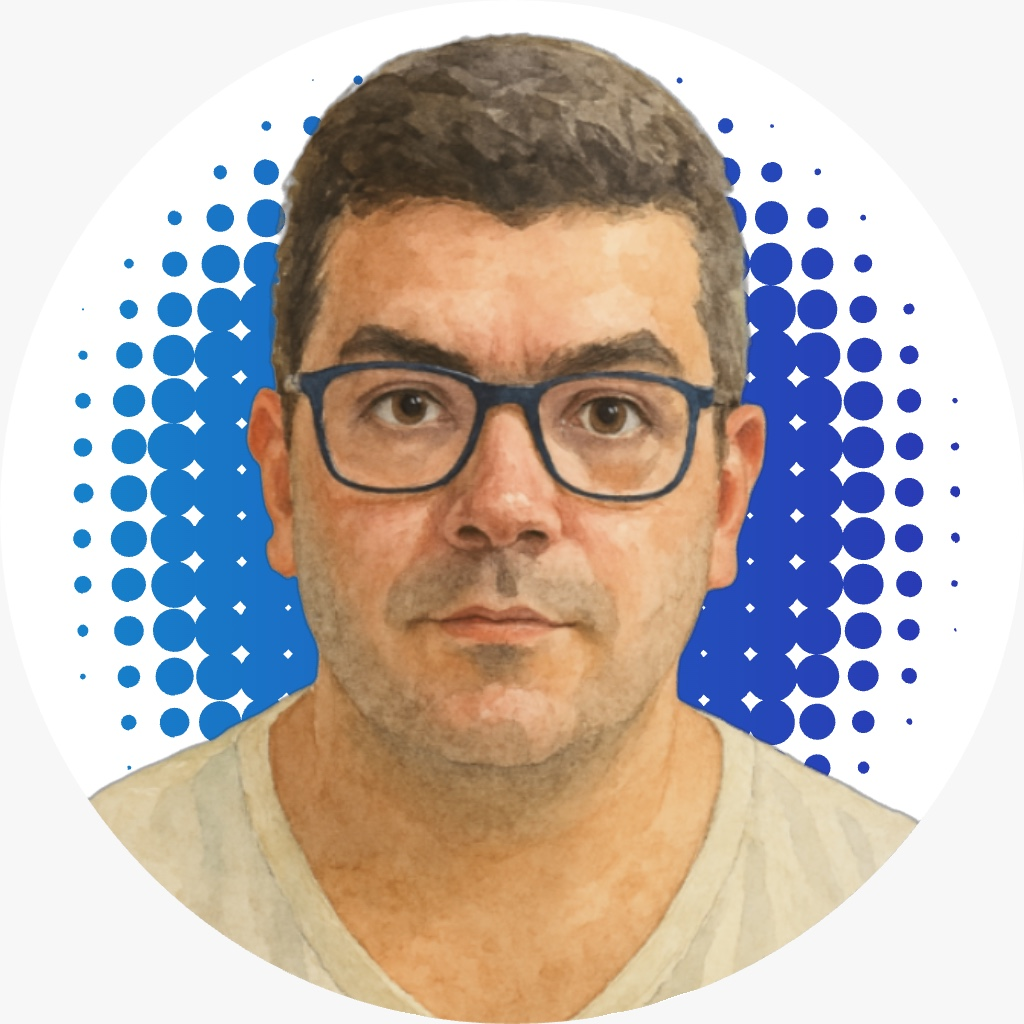
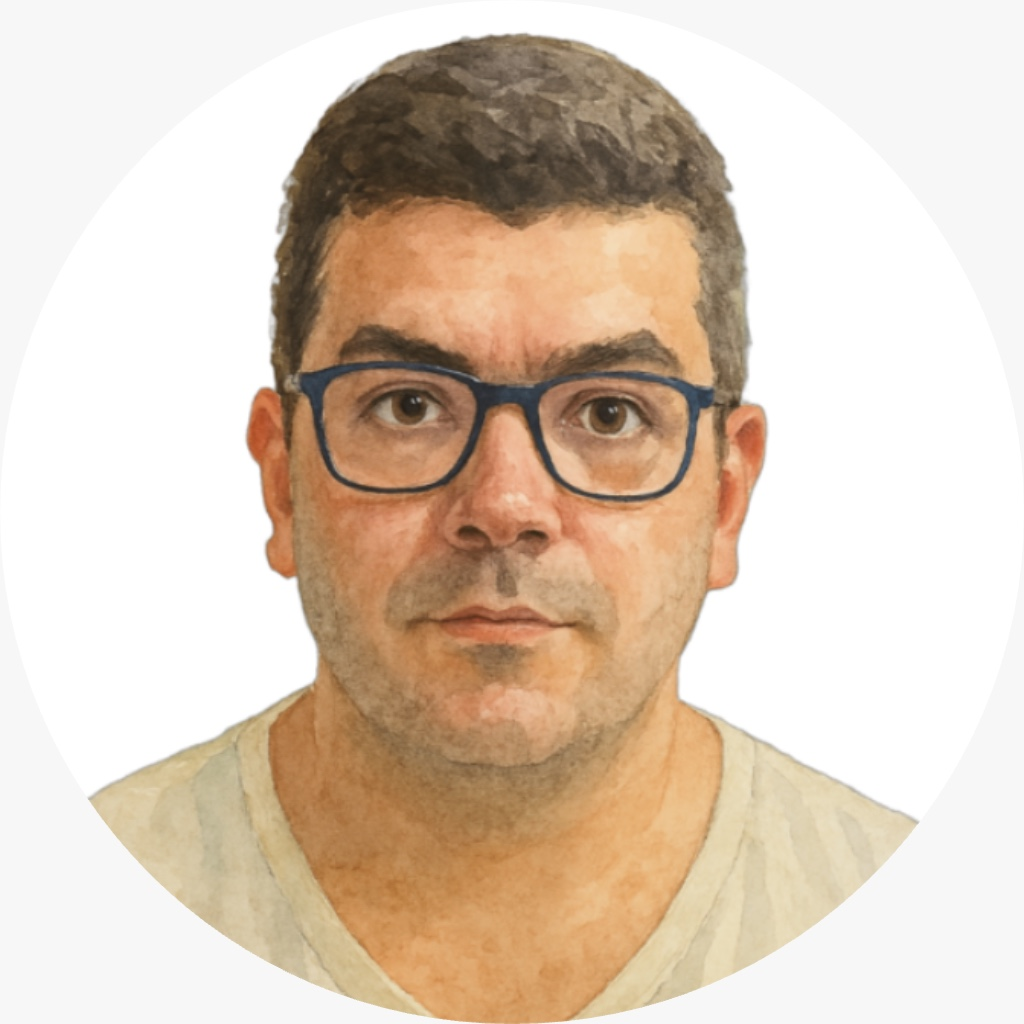
ActualIzacion v3

Changed region(s): [[0.6562, 0.0938, 0.9062, 0.7812], [0.0625, 0.1562, 0.3125, 0.7188], [0.2812, 0.0938, 0.3125, 0.125]]

diff --git a/app/page.tsx b/app/page.tsx
@@ -4,10 +4,34 @@ import { useState, useEffect, useRef } from "react"
 import type React from "react"
 import { Button } from "@/components/ui/button"
 import { Card, CardContent } from "@/components/ui/card"
-import { Sparkles, Target, Rocket, Shield, Brain, Users, Cog, TrendingUp, MessageSquare, Star } from "lucide-react"
+import {
+  ArrowRight,
+  Play,
+  Sparkles,
+  Target,
+  Rocket,
+  Shield,
+  Zap,
+  Brain,
+  Users,
+  Cog,
+  TrendingUp,
+  MessageSquare,
+  Calendar,
+  Star,
+  CheckCircle,
+  XCircle,
+  AlertCircle,
+  X,
+} from "lucide-react"
 
 import { useAnalytics } from "@/hooks/use-analytics"
 import { ScrollTracker } from "@/components/scroll-tracker"
+declare global {
+  interface Window {
+    grecaptcha: any
+  }
+}
 
 // Agregar después de los imports
 const animationStyles = `
@@ -64,6 +88,26 @@ const animationStyles = `
     }
   }
 
+  @keyframes slideInFromTop {
+    from {
+      opacity: 0;
+      transform: translateY(-100px);
+    }
+    to {
+      opacity: 1;
+      transform: translateY(0);
+    }
+  }
+
+  @keyframes pulse {
+    0%, 100% {
+      transform: scale(1);
+    }
+    50% {
+      transform: scale(1.05);
+    }
+  }
+
   .animate-fade-in-left {
     animation: fadeInLeft 0.8s ease-out forwards;
   }
@@ -82,6 +126,14 @@ const animationStyles = `
 
   .animate-float {
     animation: float 3s ease-in-out infinite;
+  }
+
+  .animate-slide-in-top {
+    animation: slideInFromTop 0.5s ease-out forwards;
+  }
+
+  .animate-pulse-gentle {
+    animation: pulse 2s ease-in-out infinite;
   }
 
   .animate-stagger-1 {
@@ -139,6 +191,68 @@ const animationStyles = `
   }
 `
 
+// Componente de notificación
+const Notification = ({ type, title, message, onClose }) => {
+  const getIcon = () => {
+    switch (type) {
+      case "success":
+        return <CheckCircle className="w-6 h-6 text-green-500" />
+      case "error":
+        return <XCircle className="w-6 h-6 text-red-500" />
+      case "warning":
+        return <AlertCircle className="w-6 h-6 text-yellow-500" />
+      default:
+        return <CheckCircle className="w-6 h-6 text-blue-500" />
+    }
+  }
+
+  const getBgColor = () => {
+    switch (type) {
+      case "success":
+        return "bg-green-50 border-green-200"
+      case "error":
+        return "bg-red-50 border-red-200"
+      case "warning":
+        return "bg-yellow-50 border-yellow-200"
+      default:
+        return "bg-blue-50 border-blue-200"
+    }
+  }
+
+  const getTextColor = () => {
+    switch (type) {
+      case "success":
+        return "text-green-800"
+      case "error":
+        return "text-red-800"
+      case "warning":
+        return "text-yellow-800"
+      default:
+        return "text-blue-800"
+    }
+  }
+
+  return (
+    <div className="fixed top-4 right-4 z-50 animate-slide-in-top">
+      <div className={`max-w-md rounded-xl border-2 ${getBgColor()} shadow-2xl backdrop-blur-sm`}>
+        <div className="p-6">
+          <div className="flex items-start space-x-4">
+            <div className="flex-shrink-0 animate-pulse-gentle">{getIcon()}</div>
+            <div className="flex-1 min-w-0">
+              <h3 className={`text-lg font-bold ${getTextColor()} mb-2`}>{title}</h3>
+              <p className={`text-sm ${getTextColor()} leading-relaxed`}>{message}</p>
+            </div>
+            <button onClick={onClose} className={`flex-shrink-0 ${getTextColor()} hover:opacity-70 transition-opacity`}>
+              <X className="w-5 h-5" />
+            </button>
+          </div>
+        </div>
+      </div>
+    </div>
+  )
+}
+
+
 export default function MeikifyWebsite() {
   const analytics = useAnalytics()
   const [isMenuOpen, setIsMenuOpen] = useState(false)
@@ -148,6 +262,21 @@ export default function MeikifyWebsite() {
   const [visibleMethodologyCards, setVisibleMethodologyCards] = useState(new Set())
   const videoRef = useRef<HTMLVideoElement | null>(null)
   const [recaptchaToken, setRecaptchaToken] = useState<string | null>(null)
+  const [notification, setNotification] = useState(null)
+
+  // Función para mostrar notificaciones
+  const showNotification = (type, title, message) => {
+    console.log("Notification:", type, title, message)
+    setNotification({ type, title, message })
+    // Auto-cerrar después de 6 segundos
+    setTimeout(() => {
+      setNotification(null)
+    }, 6000)
+  }
+
+  const closeNotification = () => {
+    setNotification(null)
+  }
 
   useEffect(() => {
     const handleMouseMove = (e: MouseEvent) => {
@@ -240,53 +369,106 @@ export default function MeikifyWebsite() {
   }, [])
 
   // Listen for reCAPTCHA events
-  useEffect(() => {
-    const handleRecaptchaChange = (event: CustomEvent) => {
-      setRecaptchaToken(event.detail)
-    }
+    useEffect(() => {
+      const handleRecaptchaChange = (event: CustomEvent) => {
+        setRecaptchaToken(event.detail)
+      }
 
-    window.addEventListener("recaptcha-change", handleRecaptchaChange as EventListener)
+      window.addEventListener("recaptcha-change", handleRecaptchaChange as EventListener)
 
-    return () => {
-      window.removeEventListener("recaptcha-change", handleRecaptchaChange as EventListener)
-    }
-  }, [])
+      return () => {
+        window.removeEventListener("recaptcha-change", handleRecaptchaChange as EventListener)
+      }
+    }, [])
 
   // reCAPTCHA callback function
-  const onRecaptchaChange = (token: string | null) => {
-    setRecaptchaToken(token)
-  }
+    const onRecaptchaChange = (token: string | null) => {
+      setRecaptchaToken(token)
+    }
 
-  // Form submission handler
-  const handleFormSubmit = (e: React.FormEvent) => {
+    // Form submission handler
+   const handleFormSubmit = async (e: React.FormEvent) => {
     e.preventDefault()
 
     if (!recaptchaToken) {
-      alert("Por favor, completa la verificación reCAPTCHA")
+      showNotification(
+        "warning",
+        "Verificación requerida",
+        "Por favor, completa la verificación reCAPTCHA antes de continuar.",
+      )
       return
     }
 
-    // Get form data
+    // Obtener los datos del formulario
     const formData = new FormData(e.target as HTMLFormElement)
-    const formValues = {
-      name: formData.get("name"),
-      email: formData.get("email"),
-      whatsapp: formData.get("whatsapp"),
-      company: formData.get("company"),
-      position: formData.get("position"),
-      process: formData.get("process"),
+    const data = {
+      nombre: formData.get("name") as string,
+      correo: formData.get("email") as string,
+      whatsapp: formData.get("whatsapp") as string,
+      empresa: formData.get("company") as string,
+      cargo: formData.get("position") as string,
+      tarea_proceso: formData.get("process") as string,
     }
 
-    // Track form submission
-    analytics.trackFormSubmit("diagnostico_form", {
-      company: formValues.company?.toString(),
-      position: formValues.position?.toString(),
-      lead_value: 150,
-    })
+    // Mostrar estado de carga
+    const submitButton = document.querySelector('button[type="submit"]') as HTMLButtonElement
+    const originalText = submitButton.innerHTML
+    submitButton.innerHTML =
+      '<div class="flex items-center justify-center"><div class="animate-spin rounded-full h-5 w-5 border-b-2 border-white mr-2"></div>Enviando...</div>'
+    submitButton.disabled = true
 
-    console.log("Form submitted with reCAPTCHA token:", recaptchaToken)
-    console.log("Form data:", formValues)
-    alert("Formulario enviado correctamente!")
+    const API_USERNAME = "admin"
+    const API_PASSWORD = "laCLAVEes123!"
+    const basicAuth = "Basic " + Buffer.from(`${API_USERNAME}:${API_PASSWORD}`).toString("base64")
+
+    showNotification(
+      "success",
+      "¡Formulario enviado exitosamente! 🎉",
+      "Recibirás tu diagnóstico personalizado con análisis y recomendaciones en tu correo o WhatsApp muy pronto. ¡Gracias por confiar en Meikify!",
+    )
+    
+    try {
+      const response = await fetch("https://n8nwebhook.meikify.cl/webhook/leads-diagnostico", {
+        method: "POST",
+        headers: {
+          "Content-Type": "application/json",
+          "Authorization": basicAuth,
+        },
+        body: JSON.stringify(data),
+      })
+      console.log(response)
+      if (response.ok) {
+        showNotification(
+          "success",
+          "¡Formulario enviado exitosamente! 🎉",
+          "Recibirás tu diagnóstico personalizado con análisis y recomendaciones en tu correo o WhatsApp muy pronto. ¡Gracias por confiar en Meikify!",
+        )
+        ;(e.target as HTMLFormElement).reset()
+
+        // Resetear reCAPTCHA
+        if (window.grecaptcha) {
+          window.grecaptcha.reset()
+        }
+        setRecaptchaToken(null)
+      } else {
+        showNotification(
+          "error",
+          "Error de conexión 🌐",
+          `${response.status}`,
+        )
+      }
+    } catch (error) {
+      console.error("Error al enviar el formulario:", error)
+      showNotification(
+          "error",
+        "Error de conexión 🌐",
+        "Hubo un error al enviar el formulario. Por favor, inténtalo de nuevo o contáctanos directamente.",
+      )
+    } finally {
+      // Restaurar el botón
+      submitButton.innerHTML = originalText
+      submitButton.disabled = false
+    }
   }
 
   // Track page view on mount
@@ -324,6 +506,15 @@ export default function MeikifyWebsite() {
   return (
     <div className="min-h-screen bg-white overflow-x-hidden pt-20">
       <style dangerouslySetInnerHTML={{ __html: animationStyles }} />
+      {/* Notification */}
+      {notification && (
+        <Notification
+          type={notification.type}
+          title={notification.title}
+          message={notification.message}
+          onClose={closeNotification}
+        />
+      )}
       {/* Floating Elements */}
       <div className="fixed inset-0 pointer-events-none z-0">
         <div
@@ -590,7 +781,7 @@ export default function MeikifyWebsite() {
               ].map((benefit, index) => (
                 <Card
                   key={index}
-                  className={`bg-slate-800 border-slate-700 hover:bg-slate-750 transition-all duration-500 transform hover:scale-105 hover:-translate-y-2 group ${
+                  className={`bg-white/10 backdrop-blur-sm border border-white/20 hover:bg-white/15 transition-all duration-500 transform hover:scale-105 hover:-translate-y-2 group ${
                     visibleSections.has("soluciones") ? `animate-fade-in-up animate-stagger-${index + 1}` : ""
                   }`}
                 >
@@ -1056,22 +1247,6 @@ export default function MeikifyWebsite() {
                   ))}
                 </div>
               </div>
-
-              {/* CTA personalizado */}
-              <div className="pt-6">
-                <Button
-                  size="lg"
-                  className="bg-gradient-to-r from-cyan-500 to-blue-600 hover:from-cyan-600 hover:to-blue-700 text-white px-8 py-4 rounded-full font-semibold shadow-lg hover:shadow-xl transition-all duration-300 transform hover:scale-105"
-                  onClick={() => {
-                    // Track CTA click
-                    analytics.trackCTAClick("Conversar con Joan", "fundador")
-                    handleWhatsAppClick("fundador")
-                  }}
-                >
-                  <MessageSquare className="mr-3" size={20} />
-                  Conversar con Joan
-                </Button>
-              </div>
             </div>
           </div>
         </div>
@@ -1259,7 +1434,7 @@ export default function MeikifyWebsite() {
                 <h3 className="text-3xl font-bold text-cyan-300">Comienza tu transformación</h3>
                 <div className="space-y-4">
                   {[
-                    { icon: <Star className="w-6 h-6" />, text: "Diagnóstico gratuito en 24h" },
+                    { icon: <Star className="w-6 h-6" />, text: "Diagnóstico express" },
                     { icon: <Shield className="w-6 h-6" />, text: "Garantía de resultados" },
                     { icon: <Users className="w-6 h-6" />, text: "Soporte 24/7 especializado" },
                   ].map((feature, index) => (
@@ -1289,7 +1464,7 @@ export default function MeikifyWebsite() {
                     ;(e.target as HTMLElement).style.color = "#00bce7"
                   }}
                 >
-                  Agendar Demo VIP
+                  Diagnóstico Gratis
                 </Button>
               </div>
             </div>
@@ -1422,12 +1597,12 @@ export default function MeikifyWebsite() {
                 {/* Social Media Icons */}
                 <div className="flex space-x-4 pt-4">
                   <a href="https://www.linkedin.com/company/meikifycl/" target="_blank" rel="noopener noreferrer">
-                    <div className="w-8 h-8 bg-blue-600 rounded flex items-center justify-center">
+                    <div className="w-8 h-8 rounded flex items-center justify-center">
                       <img src="/images/linkedin_logo.png" alt="LinkedIn" className="w-auto object-contain" />
                     </div>
                   </a>
                   <a href="https://www.instagram.com/joan.meikify/" target="_blank" rel="noopener noreferrer">
-                    <div className="w-8 h-8 bg-gradient-to-br from-purple-500 to-pink-500 rounded flex items-center justify-center">
+                    <div className="w-8 h-8 rounded flex items-center justify-center">
                       <img src="/images/instagram_logo.png" alt="Instagram" className="w-auto object-contain" />
                     </div>
                   </a>
@@ -1437,7 +1612,7 @@ export default function MeikifyWebsite() {
                     </div>
                   </a>
                   <a href="https://www.tiktok.com/@joan.meikify" target="_blank" rel="noopener noreferrer">
-                    <div className="w-8 h-8 bg-black rounded flex items-center justify-center">
+                    <div className="w-8 h-8 rounded flex items-center justify-center">
                       <img src="/images/tiktok_logo.avif" alt="TikTok" className="w-auto object-contain" />
                     </div>
                   </a>
